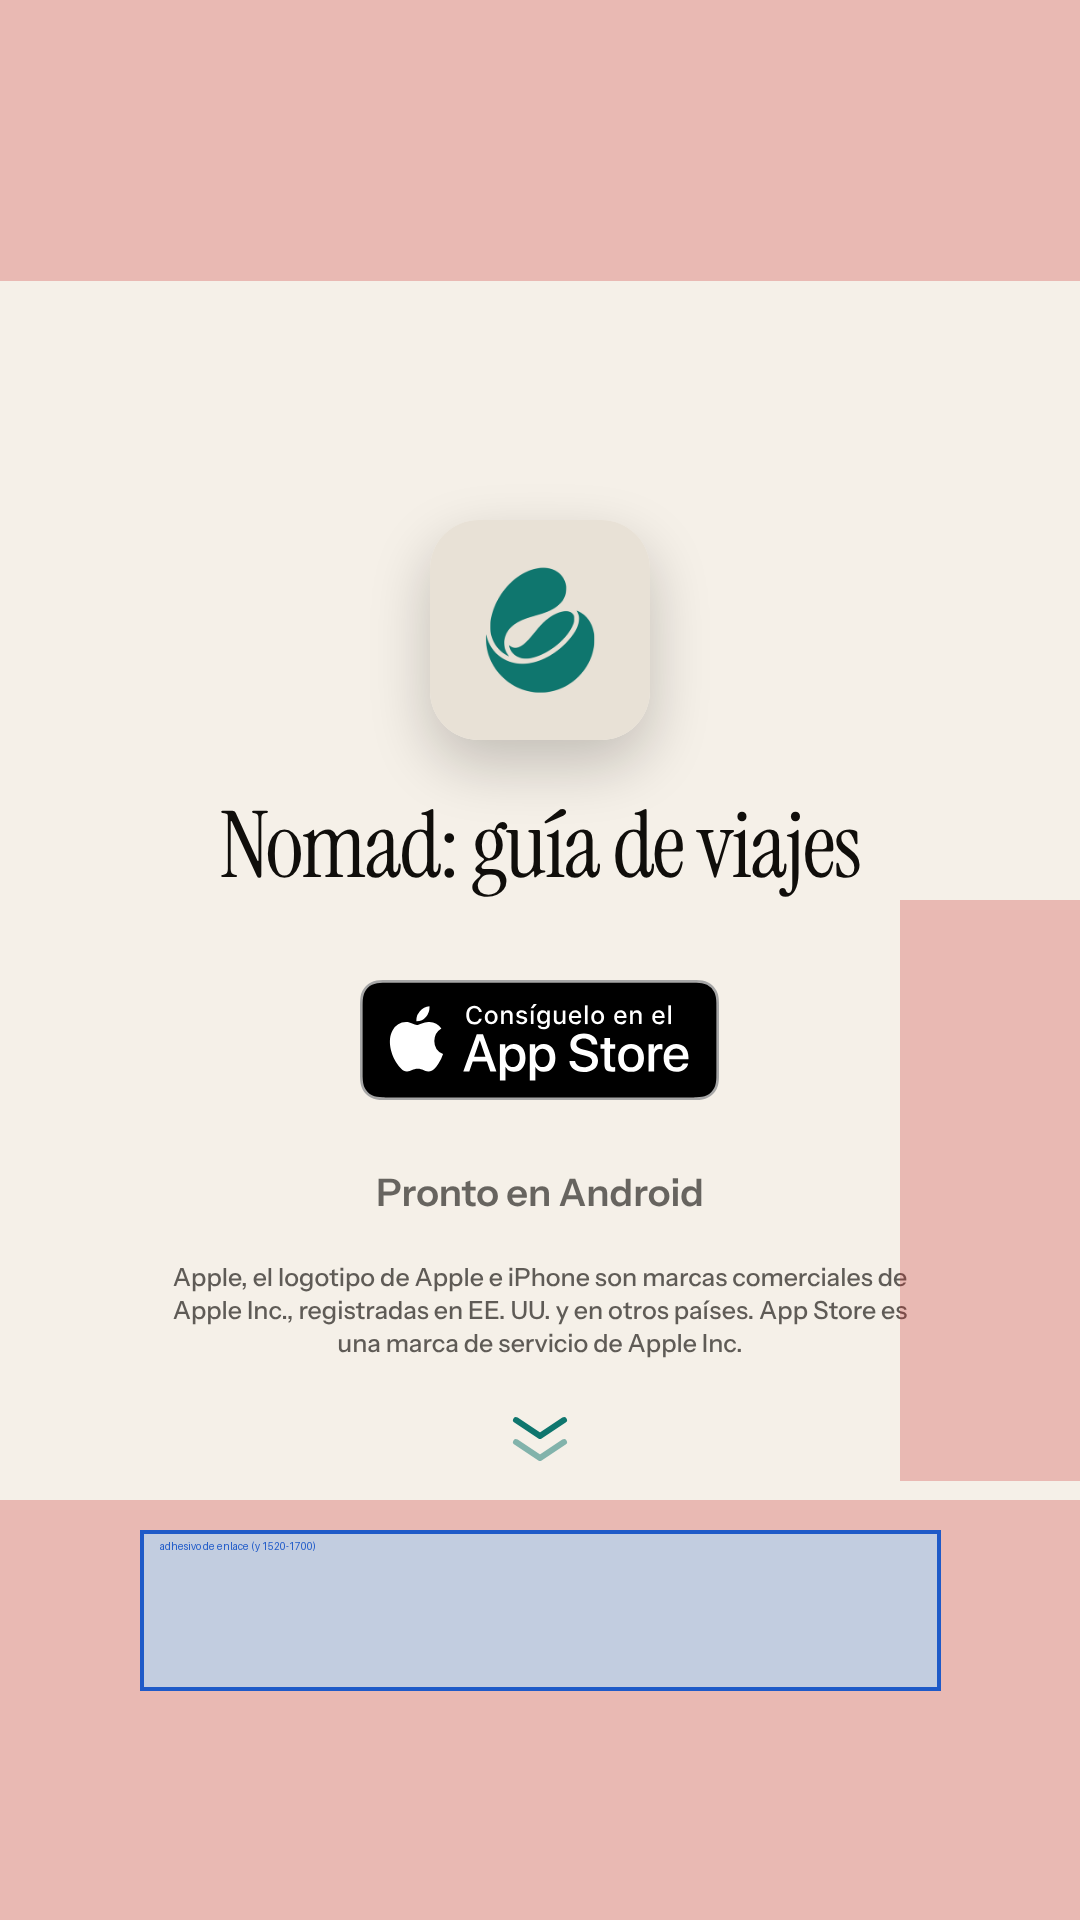
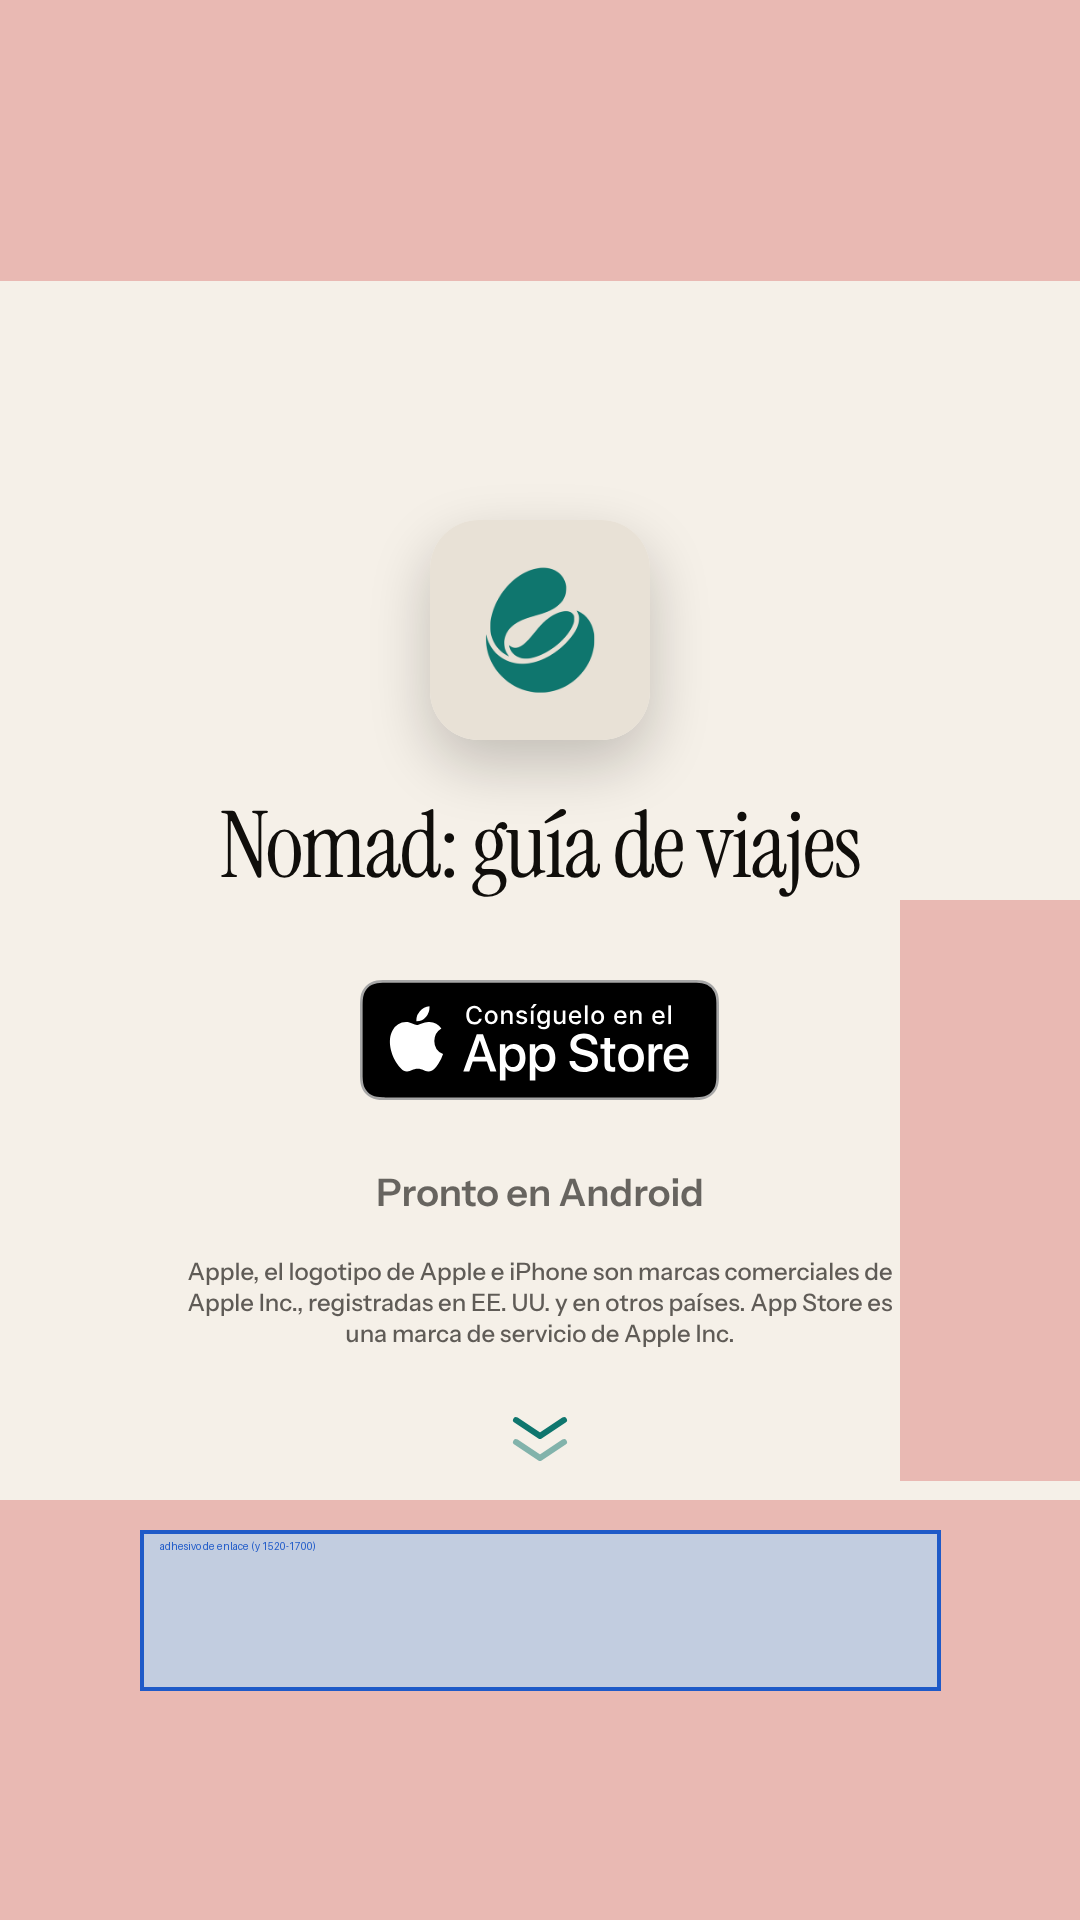
Un trazo: la portada, la versión limpia y el crédito de Apple dentro de x=900
- portada.html y portada.sh: la pregunta, la cobertura vacía, la onda y «Sigue sonando.», con
  el icono y el nombre exacto; todo entre y=464 y 1456, dentro del recorte 3:4 de la cuadrícula.
  Sin la insignia (una por vídeo) y sin mayúsculas: «iPhone» y «App Store» se escriben tal cual.
- Las líneas de marca de Apple pasaban de x=900, debajo de los botones de TikTok e Instagram:
  ahora 720 de ancho, 24 px, tres líneas.
- La versión limpia (sin flecha ni «Enlace en el perfil») para TikTok sin campo «Sitio web» o
  para una historia promocionada; revision/limpia-6-el-cierre.png.

Claude-Session: https://claude.ai/code/session_0196mf4dm34Y5H63pT5oKbym

Changed region(s): [[0.1528, 0.6562, 0.8556, 0.7188]]

diff --git a/piezas/historias-animadas/lanzamiento-trazo/portada.html b/piezas/historias-animadas/lanzamiento-trazo/portada.html
@@ -1,0 +1,64 @@
+<!doctype html>
+<html lang="es">
+  <head>
+    <meta charset="UTF-8" />
+    <title>Nomad &middot; portada de Un trazo</title>
+    <!-- LA PORTADA DEL REEL (27-oct). Lo mismo que abre el v&iacute;deo (la pregunta, la cobertura vac&iacute;a y
+         la onda que sigue), con la respuesta y el nombre exacto de la app. En la cuadr&iacute;cula se ve
+         recortada a 3:4 (y 240-1680): todo el contenido va entre 464 y 1456. Sin la insignia: Apple
+         pide una por v&iacute;deo, y &eacute;sa es la del cierre. Se fotograf&iacute;a con portada.sh. -->
+    <link rel="stylesheet" href="assets/fuentes.css" />
+    <style>
+      html, body { margin: 0; padding: 0; background: #FFFDF9; }
+      #root { position: relative; width: 1080px; height: 1920px; overflow: hidden; color: #100E0B;
+              background-color: #FFFDF9;
+              background-image: radial-gradient(circle, rgba(16,14,11,.07) 1.6px, rgba(16,14,11,0) 2.1px);
+              background-size: 54px 54px; background-position: 3px 11px; }
+      p, h1 { margin: 0; position: absolute; left: 84px; width: 912px; text-align: center; white-space: nowrap; }
+      /* Sin mayúsculas: «iPhone» y «App Store» se escriben tal cual (normas de marca de Apple). */
+      .kicker { top: 460px; font-family: 'Instrument Sans'; font-size: 40px; line-height: 48px; font-weight: 600;
+                letter-spacing: .01em; color: #0F766E; }
+      h1 { font-family: 'Instrument Serif'; font-weight: 400; font-size: 150px; line-height: 1; letter-spacing: -.025em; }
+      #h1 { top: 544px; }
+      #h2 { top: 1124px; color: #0F766E; }
+      #barras { position: absolute; left: 432px; top: 734px; width: 216px; height: 150px; }
+      .barra { position: absolute; bottom: 0; width: 40px; box-sizing: border-box; border: 3px solid rgba(16,14,11,.3); border-radius: 10px; }
+      #onda { position: absolute; left: 0; top: 0; }
+      .marca { position: absolute; left: 0; width: 1080px; top: 1344px; display: flex; justify-content: center; align-items: center; gap: 26px; }
+      .marca img { width: 112px; height: 112px; border-radius: 25px; display: block; box-shadow: 0 12px 30px rgba(16,14,11,.18); }
+      .marca span { font-family: 'Instrument Serif'; font-size: 64px; line-height: 1; letter-spacing: -.02em; }
+    </style>
+  </head>
+  <body>
+    <div id="root">
+      <p class="kicker">Ya en la App Store, para iPhone</p>
+      <h1 id="h1">&iquest;Sin cobertura?</h1>
+      <div id="barras">
+        <div class="barra" style="left: 0; height: 52px;"></div>
+        <div class="barra" style="left: 58px; height: 84px;"></div>
+        <div class="barra" style="left: 116px; height: 116px;"></div>
+        <div class="barra" style="left: 174px; height: 150px;"></div>
+      </div>
+      <svg id="onda" width="1080" height="1920" viewBox="0 0 1080 1920" fill="none">
+        <path id="trazo" stroke="#0F766E" stroke-width="12" stroke-linecap="round" stroke-linejoin="round" />
+      </svg>
+      <h1 id="h2">Sigue sonando.</h1>
+      <div class="marca"><img src="assets/icono-app.png" alt="" /><span>Nomad: gu&iacute;a de viajes</span></div>
+    </div>
+    <script>
+      // La misma onda del v&iacute;deo (index.html, onda()), en el instante 3,13 s, con su latido.
+      (function () {
+        var X0 = 120, X1 = 960, Y = 1004, t = 3.16, a = 1.3, d = "";
+        for (var x = X0; x <= X1; x += 6) {
+          var u = (x - X0) / (X1 - X0);
+          var env = Math.pow(Math.sin(Math.PI * u), 0.7) * (0.62 + 0.38 * Math.sin(2 * Math.PI * (x / 430 - 0.55 * t)));
+          var s = 0.58 * Math.sin(2 * Math.PI * (x / 150 - 1.9 * t))
+                + 0.30 * Math.sin(2 * Math.PI * (x / 64 + 3.1 * t) + 1.3)
+                + 0.12 * Math.sin(2 * Math.PI * (x / 37 - 5.3 * t) + 0.4);
+          d += (x === X0 ? "M" : " L") + x + "," + (Y + 62 * a * env * s).toFixed(1);
+        }
+        document.getElementById("trazo").setAttribute("d", d);
+      })();
+    </script>
+  </body>
+</html>

diff --git a/piezas/historias-animadas/lanzamiento-trazo/index.html b/piezas/historias-animadas/lanzamiento-trazo/index.html
@@ -87,8 +87,10 @@
       #c-insignia { position: absolute; left: 360px; top: 980px; width: 359px; height: 120px; display: block; }
       #c-android { position: absolute; left: 84px; top: 1170px; width: 912px; margin: 0; text-align: center;
                    font-size: 38px; line-height: 1.2; font-weight: 600; color: rgba(16,14,11,.62); }
-      #c-credito { position: absolute; left: 150px; top: 1262px; width: 780px; margin: 0; text-align: center;
-                   font-size: 25px; line-height: 33px; font-weight: 500; color: rgba(16,14,11,.66); }
+      /* Las l&iacute;neas de marca de Apple, al final del v&iacute;deo (Apple: &laquo;At the end of a video, display the
+         correct credit lines&raquo;). Letra legal, no de lectura: data-layout-ignore. Hasta x=900, como todo. */
+      #c-credito { position: absolute; left: 180px; top: 1256px; width: 720px; margin: 0; text-align: center;
+                   font-size: 24px; line-height: 31px; font-weight: 500; color: rgba(16,14,11,.66); }
       #c-perfil { position: absolute; left: 84px; top: 1404px; width: 912px; margin: 0; text-align: center;
                   font-size: 36px; line-height: 1.2; font-weight: 600; white-space: nowrap; }
     </style>
